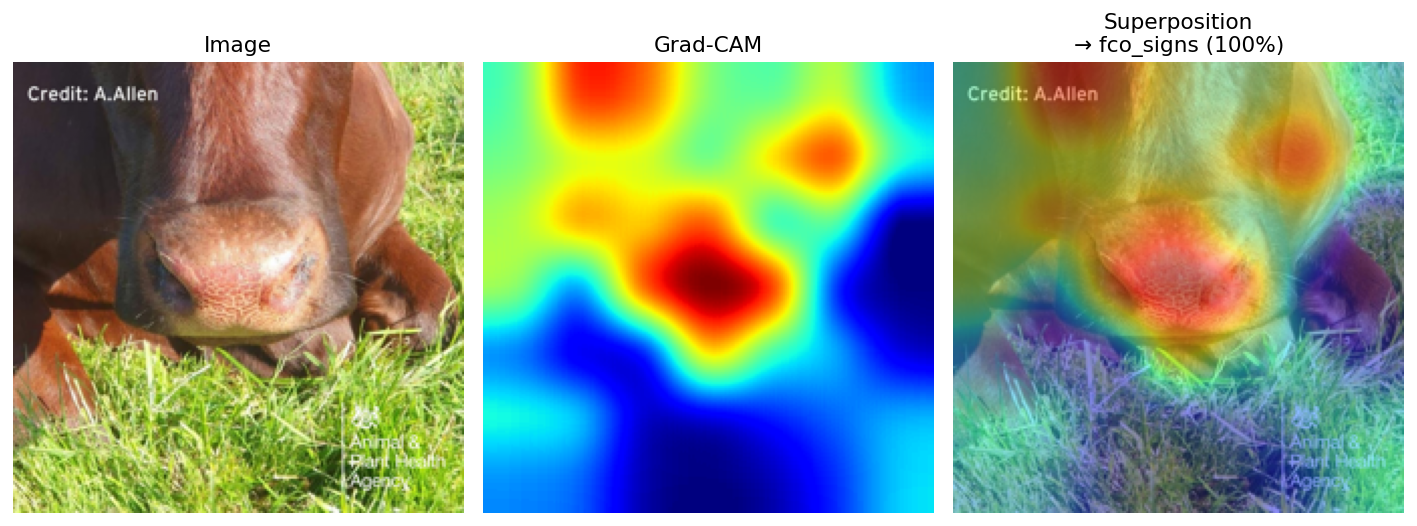
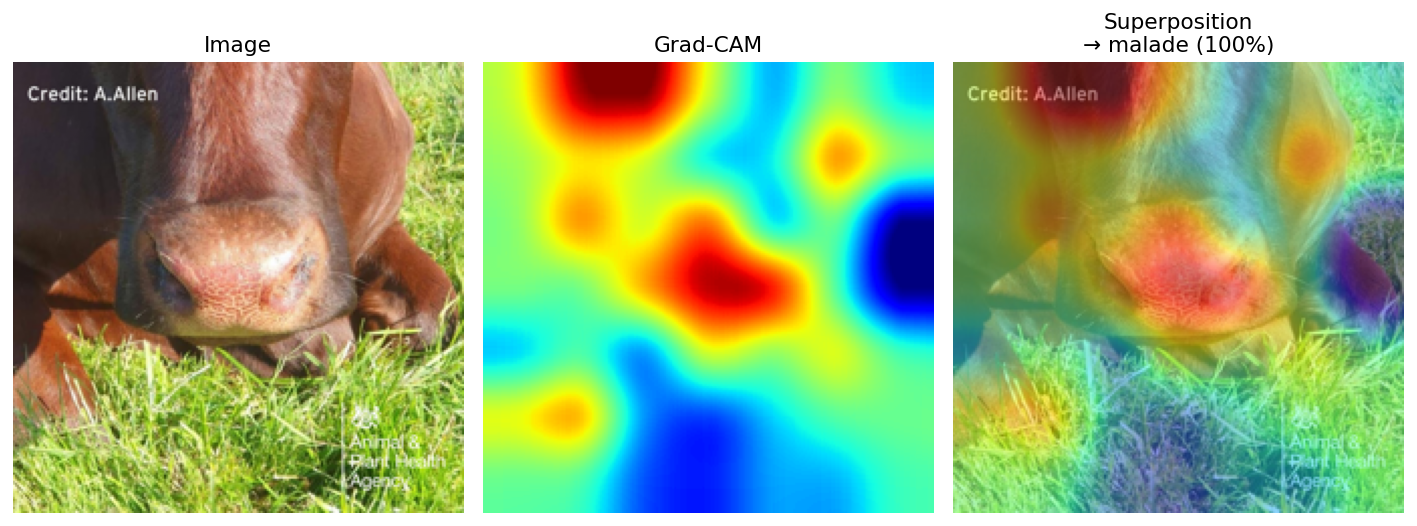
Prétraitement CLAHE (égalisation d'histogramme) du volet image
- Nouveau module image_preproc.py : CLAHE via OpenCV (repli égalisation globale).
- Appliqué à l'entraînement, à l'application et au Grad-CAM (cohérence train/inférence).
- Modèle image ré-entraîné avec ce prétraitement ; flag 'clahe' dans le checkpoint.
- Dépendance opencv-python-headless ajoutée ; README mis à jour.

diff --git a/corrige/image_preproc.py b/corrige/image_preproc.py
@@ -1,0 +1,59 @@
+# -*- coding: utf-8 -*-
+"""
+Prétraitement d'image — égalisation d'histogramme adaptative (CLAHE).
+
+Standardise le contraste et la luminance entre des images de sources
+hétérogènes (photos stock vs figures cliniques), AVANT le redimensionnement
+et la normalisation. Appliqué de façon identique à l'entraînement et à
+l'inférence, pour éviter tout décalage.
+
+CLAHE (Contrast Limited Adaptive Histogram Equalization) applique l'égalisation
+d'histogramme localement (par tuiles), avec limitation du contraste pour éviter
+d'amplifier le bruit — la version « professionnelle » de l'égalisation vue en cours.
+"""
+from __future__ import annotations
+
+import numpy as np
+from PIL import Image
+
+try:
+    import cv2
+    _HAS_CV2 = True
+except Exception:
+    _HAS_CV2 = False
+
+
+def apply_clahe(img: Image.Image, clip_limit: float = 2.0, tile: int = 8) -> Image.Image:
+    """Applique CLAHE sur la luminance et renvoie une image RGB (PIL)."""
+    arr = np.asarray(img.convert("RGB"))
+    if _HAS_CV2:
+        lab = cv2.cvtColor(arr, cv2.COLOR_RGB2LAB)
+        clahe = cv2.createCLAHE(clipLimit=clip_limit, tileGridSize=(tile, tile))
+        lab[:, :, 0] = clahe.apply(lab[:, :, 0])
+        rgb = cv2.cvtColor(lab, cv2.COLOR_LAB2RGB)
+    else:
+        # Repli sans OpenCV : égalisation d'histogramme globale sur la luminance.
+        ycc = np.asarray(Image.fromarray(arr).convert("YCbCr")).copy()
+        y = ycc[:, :, 0]
+        hist, _ = np.histogram(y.flatten(), 256, [0, 256])
+        cdf = hist.cumsum()
+        cdf_m = np.ma.masked_equal(cdf, 0)
+        cdf_m = (cdf_m - cdf_m.min()) * 255 / (cdf_m.max() - cdf_m.min())
+        lut = np.ma.filled(cdf_m, 0).astype("uint8")
+        ycc[:, :, 0] = lut[y]
+        rgb = np.asarray(Image.fromarray(ycc, "YCbCr").convert("RGB"))
+    return Image.fromarray(rgb)
+
+
+class CLAHE:
+    """Transform PIL -> PIL utilisable dans torchvision.transforms.Compose."""
+
+    def __init__(self, clip_limit: float = 2.0, tile: int = 8):
+        self.clip_limit = clip_limit
+        self.tile = tile
+
+    def __call__(self, img: Image.Image) -> Image.Image:
+        return apply_clahe(img, self.clip_limit, self.tile)
+
+    def __repr__(self):
+        return f"CLAHE(clip_limit={self.clip_limit}, tile={self.tile})"

diff --git a/corrige/03_app_streamlit.py b/corrige/03_app_streamlit.py
@@ -375,12 +375,16 @@ def predict_image(bundle, pil_img: Image.Image) -> dict:
     import torch
     from torchvision import transforms
     ckpt = bundle["ckpt"]
+    pil_img = pil_img.convert("RGB")
+    if ckpt.get("clahe"):                       # même prétraitement qu'à l'entraînement
+        from image_preproc import apply_clahe
+        pil_img = apply_clahe(pil_img)
     tf = transforms.Compose([
         transforms.Resize((ckpt["img_size"], ckpt["img_size"])),
         transforms.ToTensor(),
         transforms.Normalize(ckpt["mean"], ckpt["std"]),
     ])
-    x = tf(pil_img.convert("RGB")).unsqueeze(0)
+    x = tf(pil_img).unsqueeze(0)
     with torch.no_grad():
         proba = torch.softmax(bundle["model"](x), dim=1)[0].numpy()
     classes = ckpt["classes"]

diff --git a/corrige/05_image_gradcam.py b/corrige/05_image_gradcam.py
@@ -101,12 +101,16 @@ def load():
 
 def preprocess(pil_img, ckpt):
     from torchvision import transforms
+    pil_img = pil_img.convert("RGB")
+    if ckpt.get("clahe"):                       # cohérence avec l'entraînement
+        from image_preproc import apply_clahe
+        pil_img = apply_clahe(pil_img)
     tf = transforms.Compose([
         transforms.Resize((ckpt["img_size"], ckpt["img_size"])),
         transforms.ToTensor(),
         transforms.Normalize(ckpt["mean"], ckpt["std"]),
     ])
-    return tf(pil_img.convert("RGB")).unsqueeze(0)
+    return tf(pil_img).unsqueeze(0)
 
 
 def render(pil_img, cam, ckpt, label, conf, out_path):

diff --git a/corrige/02_train_image_efficientnet.py b/corrige/02_train_image_efficientnet.py
@@ -43,6 +43,8 @@ from sklearn.metrics import classification_report, confusion_matrix
 from torch.utils.data import DataLoader, WeightedRandomSampler
 from torchvision import datasets, transforms
 
+from image_preproc import CLAHE   # prétraitement : égalisation d'histogramme adaptative
+
 try:
     sys.stdout.reconfigure(encoding="utf-8")
 except Exception:
@@ -91,6 +93,7 @@ class BinaryFolder(datasets.ImageFolder):
 def build_transforms():
     """Augmentation modérée (dataset minuscule : on évite les transfos extrêmes)."""
     train_tf = transforms.Compose([
+        CLAHE(),  # égalisation d'histogramme adaptative (contraste homogène)
         transforms.Resize((IMG_SIZE + 32, IMG_SIZE + 32)),
         transforms.RandomResizedCrop(IMG_SIZE, scale=(0.7, 1.0)),
         transforms.RandomHorizontalFlip(),
@@ -100,6 +103,7 @@ def build_transforms():
         transforms.Normalize(IMAGENET_MEAN, IMAGENET_STD),
     ])
     eval_tf = transforms.Compose([
+        CLAHE(),  # même prétraitement à l'évaluation/inférence
         transforms.Resize((IMG_SIZE, IMG_SIZE)),
         transforms.ToTensor(),
         transforms.Normalize(IMAGENET_MEAN, IMAGENET_STD),
@@ -252,6 +256,7 @@ def main() -> None:
             "img_size": IMG_SIZE,
             "mean": IMAGENET_MEAN,
             "std": IMAGENET_STD,
+            "clahe": True,   # prétraitement CLAHE appliqué -> à refaire à l'inférence
             "task": "binary_healthy_vs_fco",
         },
         OUT_DIR / "fco_image_model.pth",

diff --git a/corrige/README.md b/corrige/README.md
@@ -47,6 +47,8 @@ pip install -r requirements.txt
 python 01_train_lab_rf.py --csv "../01_BTV copy numbers midge.csv"
 
 # 2) Volet image — EfficientNet (torch requis ; défaut : ../fco_dataset_binaire)
+#    Prétraitement CLAHE (égalisation d'histogramme adaptative) appliqué avant l'entraînement
+#    et à l'inférence — cf. image_preproc.py.
 python 02_train_image_efficientnet.py --epochs 25
 
 # 3) Application web (4 pages : Accueil, Mode Laboratoire, Mode Éleveur, Contacts)